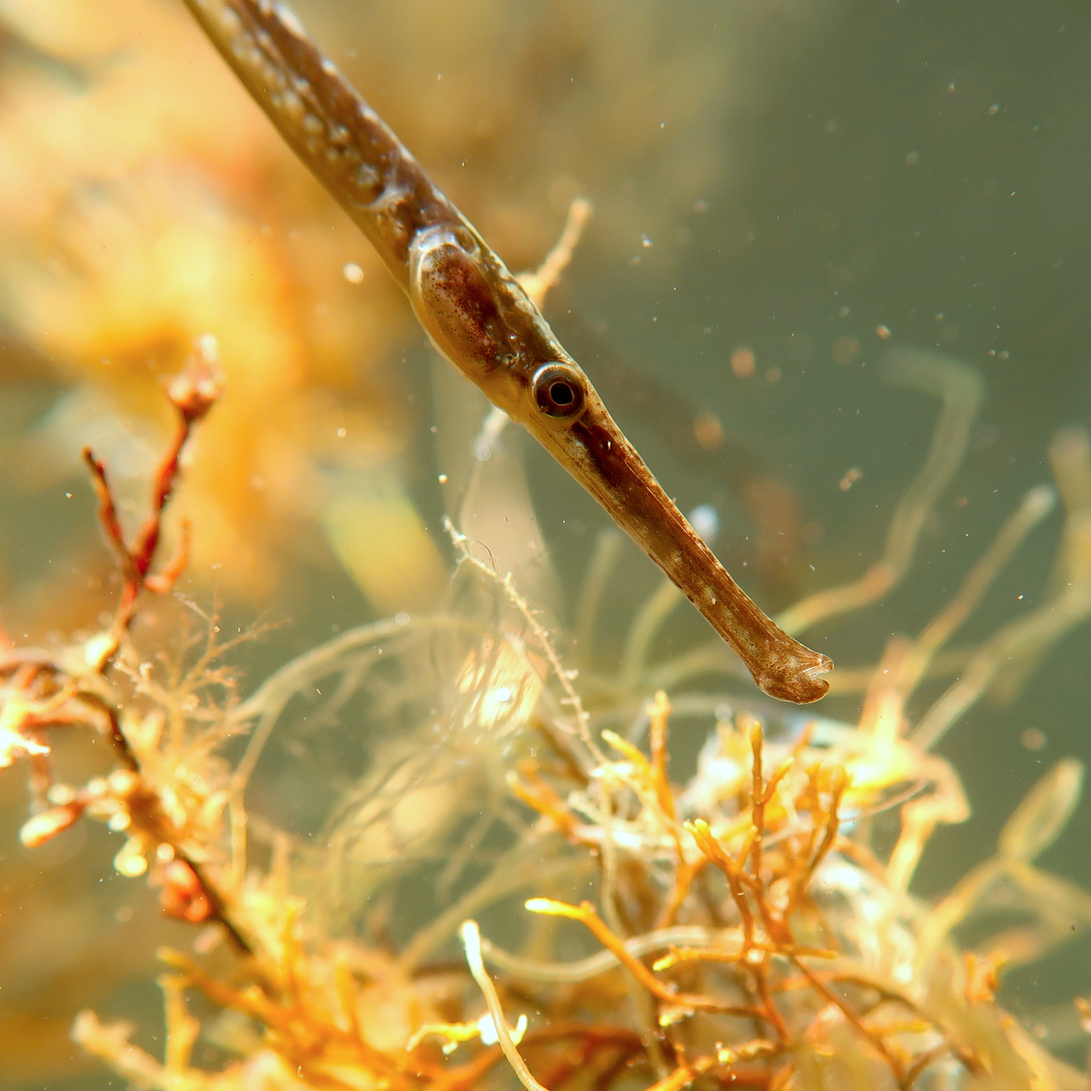
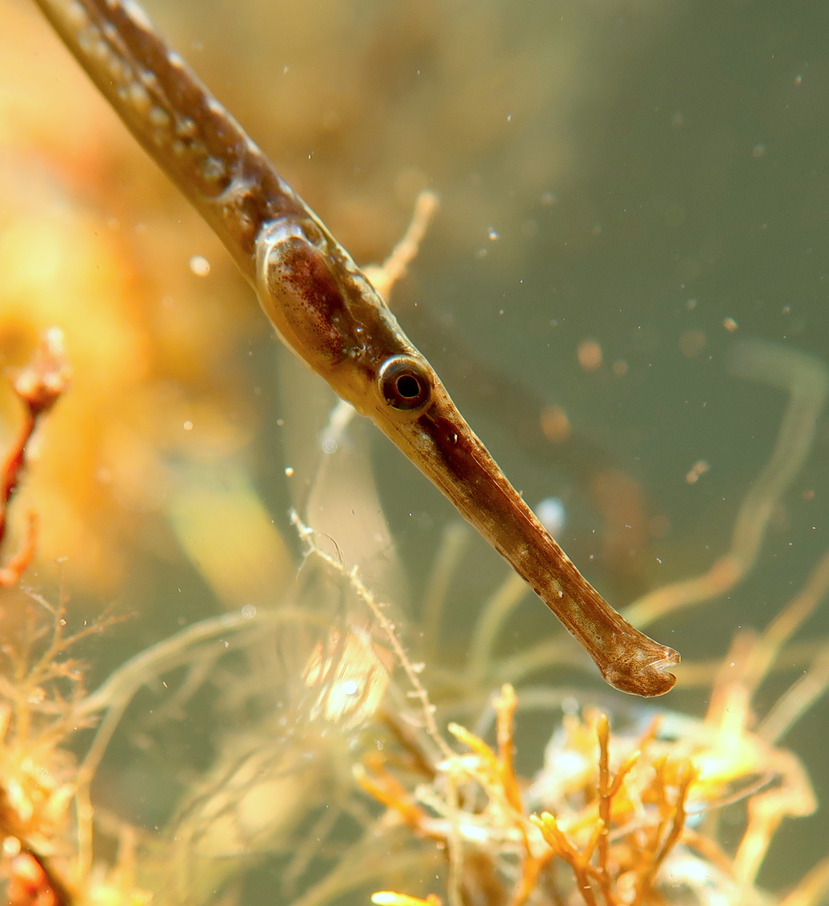
paginate

diff --git a/index.html b/index.html
@@ -26,7 +26,7 @@ featured_image: /images/social.jpg
 					<a class="listing-item__link" href="{{ site.baseurl }}/images/diving/{{ post.image_path }}" data-lightbox="home" data-title="{{ post.location }}, {{ post.date | date: "%b %Y" }}" >
 
 						<div class="listing-item__image">
-							<img src="{{ site.baseurl }}/images/previews/{{ post.image_path }}" class="lazyload"">
+							<img src="{{ site.baseurl }}/images/diving/{{ post.image_path }}" class="lazyload"">
 						</div>
 
 						<div class="listing-item__content listing-item__content--{{ site.data.settings.grid_settings.content_alignment }}">
